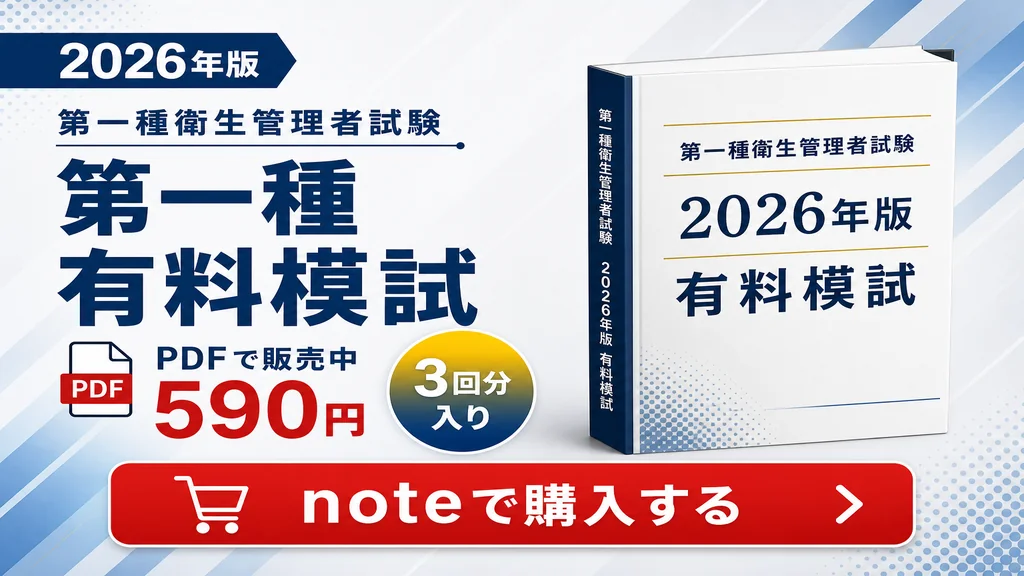
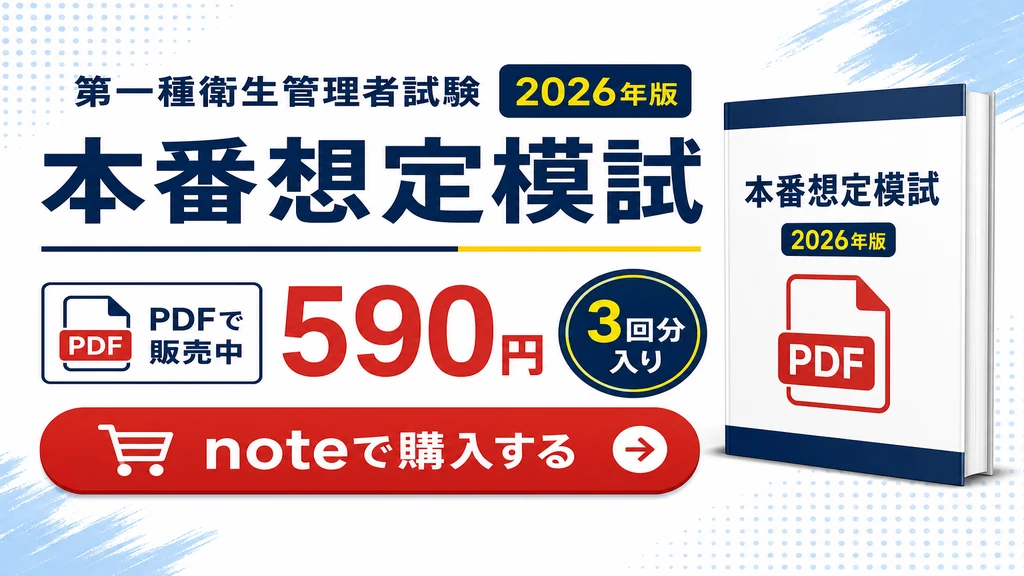
有料模試バナー画像を本番想定模試デザインに差し替え
トップ／結果画面の note 有料模試導線バナーを新デザインへ更新する。

diff --git a/site-config.js b/site-config.js
@@ -164,7 +164,7 @@ window.SITE_CONFIG = {
     "scoreMeta": "PDF · 3回 · 44問",
     "scoreLead": "本番想定模試（3回分）",
     "bannerImage": "images/affiliate/eisei1-paid-mock-note-banner.webp",
-    "bannerAlt": "第一種衛生管理者試験 2026年版 有料模試｜590円｜PDF・3回分入り｜noteで購入する",
+    "bannerAlt": "第一種衛生管理者試験 2026年版 本番想定模試｜590円｜PDF・3回分入り｜noteで購入する",
     "footnote": "※ note で販売する有料コンテンツ（¥590・3回分）です。サイト内の無料演習とは別商品です。"
   },
   "coursePromo": {
